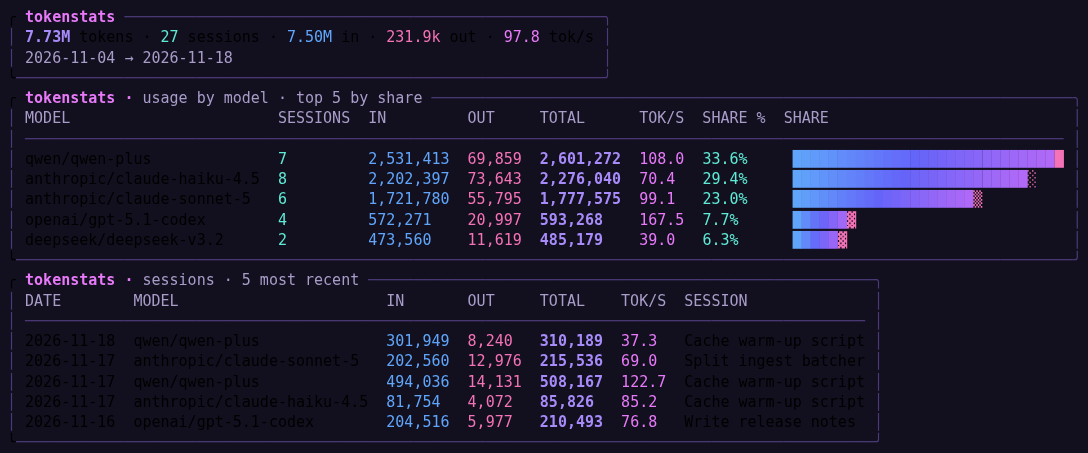
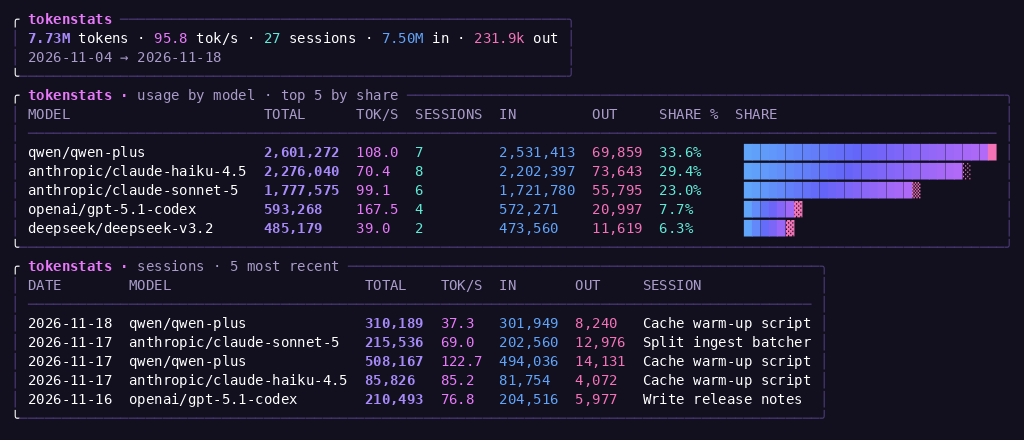
docs: regenerate screenshots with true terminal colors; retitle README
The old renders painted unstyled text black, so model names, dates and
session titles were invisible on the dark background; real terminals show
them as the default white. Regenerated all four from live tool output
(seeded store, forced color gate, ANSI->PNG), which also picks up the
current stat order and the --cache hero segment. README title is now
'tokenstats - An AI token usage record keeper'.

Changed region(s): [[0.0, 0.2068, 1.0, 0.975], [0.0, 0.0295, 0.5625, 0.1773]]

diff --git a/README.md b/README.md
@@ -1,4 +1,4 @@
-# tokenstats — permanent AI token usage record for this machine
+# tokenstats - An AI token usage record keeper
 
 `tokenstats` snapshots OpenCode's session database (opened read-only) into its
 own SQLite store (`~/.tokenstats/usage.db`) and reports it filtered by model,
